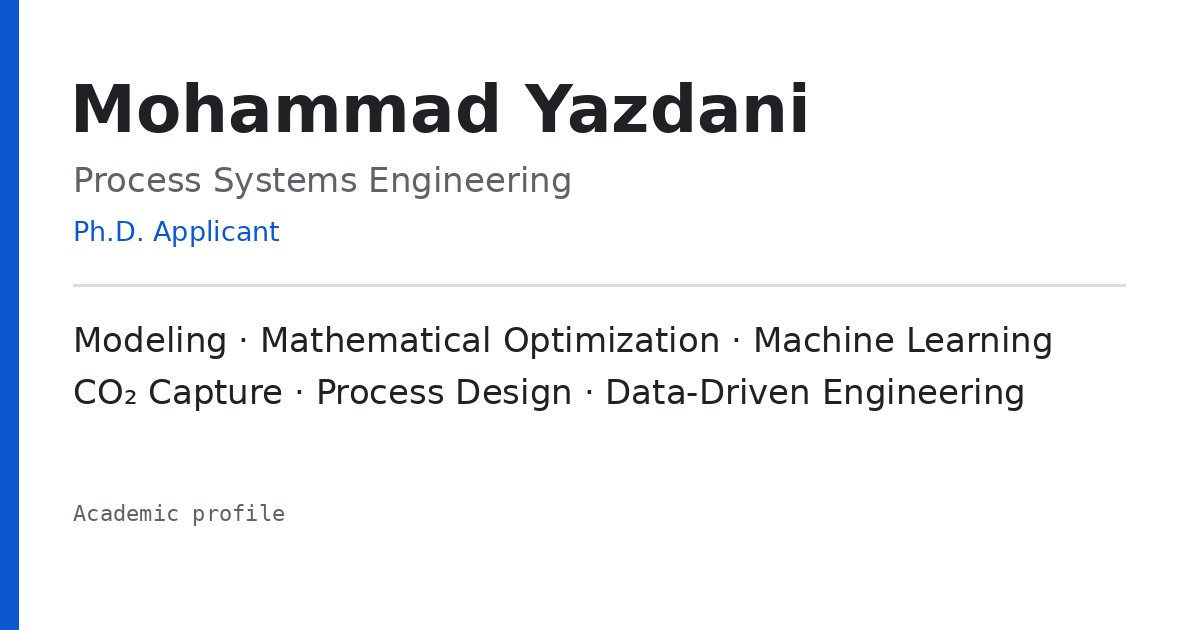
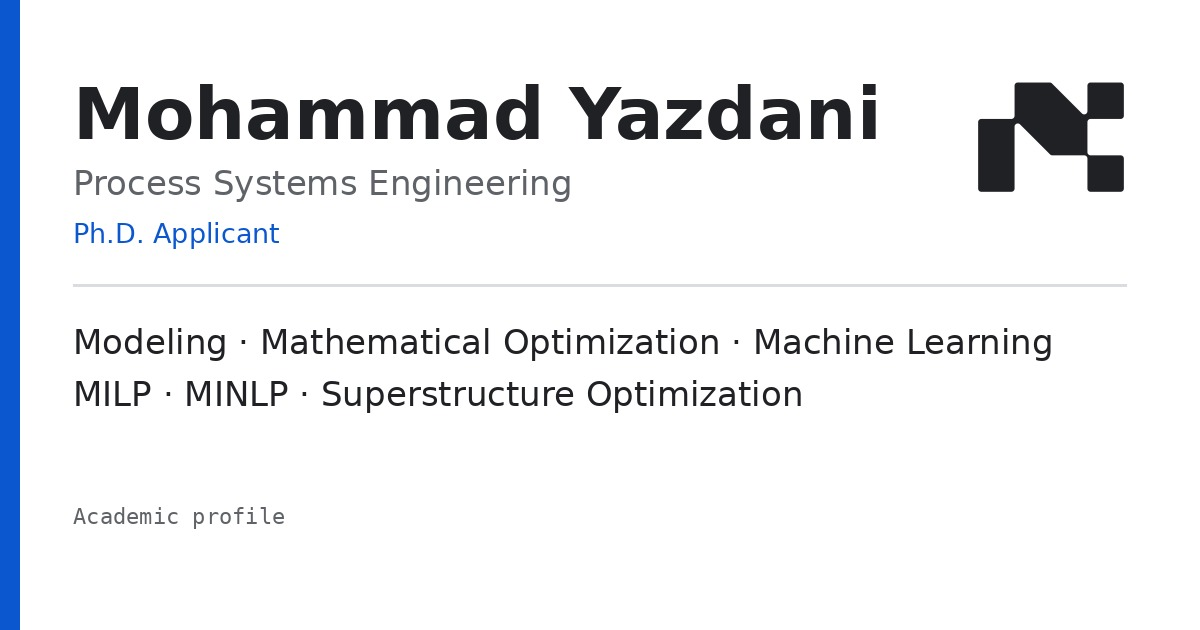
Add files via upload

diff --git a/index.html b/index.html
@@ -7,7 +7,7 @@
 <meta name="theme-color" content="#FFFFFF" id="themeColorMeta">
 <link rel="canonical" href="/">
 <meta property="og:title" content="Mohammad Yazdani — Process Systems Engineering | Academic Profile">
-<meta property="og:description" content="Academic profile of Mohammad Yazdani, a Process Systems Engineering researcher working in process modeling, optimization, machine learning, and data-driven engineering.">
+<meta property="og:description" content="Academic profile of Mohammad Yazdani, a Process Systems Engineer working in process modeling, mathematical optimization, superstructure-based process synthesis, and machine learning.">
 <meta property="og:type" content="profile">
 <meta property="og:site_name" content="Mohammad Yazdani">
 <meta property="profile:first_name" content="Mohammad">
@@ -21,10 +21,10 @@
 <meta name="twitter:image:alt" content="Mohammad Yazdani — Process Systems Engineering academic profile">
 <meta name="robots" content="index,follow,max-image-preview:large,max-snippet:-1,max-video-preview:-1">
 <meta name="twitter:title" content="Mohammad Yazdani — Process Systems Engineering | Academic Profile">
-<meta name="twitter:description" content="Academic profile focused on process systems engineering, process modeling, mathematical optimization, and machine learning.">
+<meta name="twitter:description" content="Process systems engineering: process modeling, MILP/MINLP optimization, superstructure-based synthesis, and machine learning.">
 <meta name="referrer" content="strict-origin-when-cross-origin">
 <meta name="application-name" content="Mohammad Yazdani — Academic Profile">
-<meta name="description" content="Mohammad Yazdani — Process Systems Engineering researcher focused on process modeling, mathematical optimization, machine learning, and data-driven engineering.">
+<meta name="description" content="Mohammad Yazdani — Process Systems Engineer working on process modeling, mathematical optimization (MILP, MINLP), superstructure-based process synthesis, and machine learning.">
 <title>Mohammad Yazdani — Process Systems Engineering | Academic Profile</title>
 <script>
 (() => {
@@ -294,21 +294,22 @@ footer{border-top:1px solid var(--outline-variant);padding-top:16px;margin-top:6
 .btn .material-symbols-outlined{font-size:20px}.fab .material-symbols-outlined{font-size:22px}.nav .material-symbols-outlined{font-size:24px;flex:none}
 @media (hover:hover) and (pointer:fine){.btn:hover{box-shadow:0 2px 8px var(--shadow)}.icon-btn:hover{background:var(--surface-container);color:var(--on-surface)}.nav a:hover{background:var(--surface-container-low);color:var(--on-surface)}}
 </style>
-<link rel="icon" type="image/svg+xml" href="favicon.svg">
-<link rel="icon" type="image/png" sizes="512x512" href="favicon.png">
-<link rel="icon" type="image/png" sizes="32x32" href="favicon-32.png">
-<link rel="apple-touch-icon" sizes="180x180" href="apple-touch-icon.png">
+<link rel="icon" href="favicon.svg" type="image/svg+xml">
+<link rel="icon" href="favicon.ico" sizes="48x48">
+<link rel="icon" href="favicon-32x32.png" sizes="32x32" type="image/png">
+<link rel="icon" href="favicon-16x16.png" sizes="16x16" type="image/png">
+<link rel="apple-touch-icon" href="apple-touch-icon.png">
 <script type="application/ld+json">
 {
   "@context":"https://schema.org",
   "@type":"ProfilePage",
-  "dateModified":"2026-11-17",
+  "dateModified":"2026-11-25",
   "mainEntity":{
     "@id":"#mohammad-yazdani",
     "@type":"Person",
     "name":"Mohammad Yazdani",
     "jobTitle":"Process Systems Engineering Researcher",
-    "description":"Process Systems Engineering researcher working at the intersection of process modeling, mathematical optimization, and machine learning, with a focus on CO₂ capture and process design.",
+    "description":"Process Systems Engineer working at the intersection of process modeling, mathematical optimization (MILP, MINLP), superstructure-based process synthesis, and machine learning for the design and operation of complex process systems.",
     "email":"mailto:mohamad.yazdani7990@gmail.com",
     "telephone":"+989028164610",
     "address":{"@type":"PostalAddress","addressLocality":"Tehran","addressCountry":"IR"},
@@ -320,6 +321,10 @@ footer{border-top:1px solid var(--outline-variant);padding-top:16px;margin-top:6
     "knowsAbout":[
       "Process Systems Engineering",
       "Mathematical Optimization",
+      "Mixed-Integer Linear Programming (MILP)",
+      "Mixed-Integer Nonlinear Programming (MINLP)",
+      "Superstructure Optimization",
+      "Process Synthesis",
       "Machine Learning",
       "Process Modeling",
       "Digital Twins",
@@ -384,7 +389,7 @@ footer{border-top:1px solid var(--outline-variant);padding-top:16px;margin-top:6
     <div class="hero-content">
       <div class="eyebrow label-lg">Mohammad Yazdani · Academic Profile</div>
       <h1 class="display">Process Systems Engineering through modeling, optimization, and machine learning.</h1>
-      <p class="lead body-lg">I work at the intersection of process modeling, mathematical optimization, and machine learning for process systems engineering. My current research applies these methods to CO<sub>2</sub> capture and process design, with a broader goal of developing data-driven and optimization-based tools for complex engineering systems.</p>
+      <p class="lead body-lg">I am a Process Systems Engineer working across process modeling, mathematical optimization, and machine learning. My background combines industrial process engineering in petrochemical projects with research on advanced process modeling and optimization. Going forward, I aim to work on mixed-integer optimization (MILP and MINLP) and superstructure-based process synthesis, developing systematic, data-driven and optimization-based tools for the design and operation of complex engineering systems.</p>
       <div class="body-sm location-line"><span class="material-symbols-outlined" aria-hidden="true">location_on</span>Tehran, Iran</div>
       <div class="hero-actions">
         <a class="btn primary label-lg" href="https://mail.google.com/mail/?view=cm&fs=1&to=mohamad.yazdani7990@gmail.com&su=PhD%20Opportunity%20Inquiry" target="_blank" rel="noopener noreferrer" aria-label="Email Mohammad Yazdani about PhD opportunities">Contact me about PhD opportunities <span class="material-symbols-outlined" aria-hidden="true">mail</span></a>
@@ -396,8 +401,7 @@ footer{border-top:1px solid var(--outline-variant);padding-top:16px;margin-top:6
   <section class="section reveal" id="interests">
     <div class="section-head"><h2 class="headline">Research interests</h2></div>
     <div class="chips">
-      <span class="chip label-md">Process Systems Engineering</span><span class="chip label-md">Mathematical Optimization</span><span class="chip label-md">Machine Learning &amp; Data-Driven Modeling</span><span class="chip label-md">Process Modeling &amp; Digital Twins</span><span class="chip label-md">Techno-Economic &amp; Sustainability Analysis</span><span class="chip emphasis label-md">Carbon Capture, Utilization &amp; Storage</span>
-    </div>
+      <span class="chip label-md">Process Systems Engineering</span><span class="chip label-md">Mathematical Optimization (MILP &amp; MINLP)</span><span class="chip emphasis label-md">Process Synthesis &amp; Superstructure Optimization</span><span class="chip label-md">Machine Learning &amp; Data-Driven Modeling</span><span class="chip label-md">Process Modeling &amp; Digital Twins</span><span class="chip label-md">Techno-Economic &amp; Sustainability Analysis</span><span class="chip label-md">Carbon Capture, Utilization &amp; Storage</span></div>
   </section>
 
   <section class="section reveal" id="education"><div class="section-head"><h2 class="headline">Education</h2></div><div class="list">
